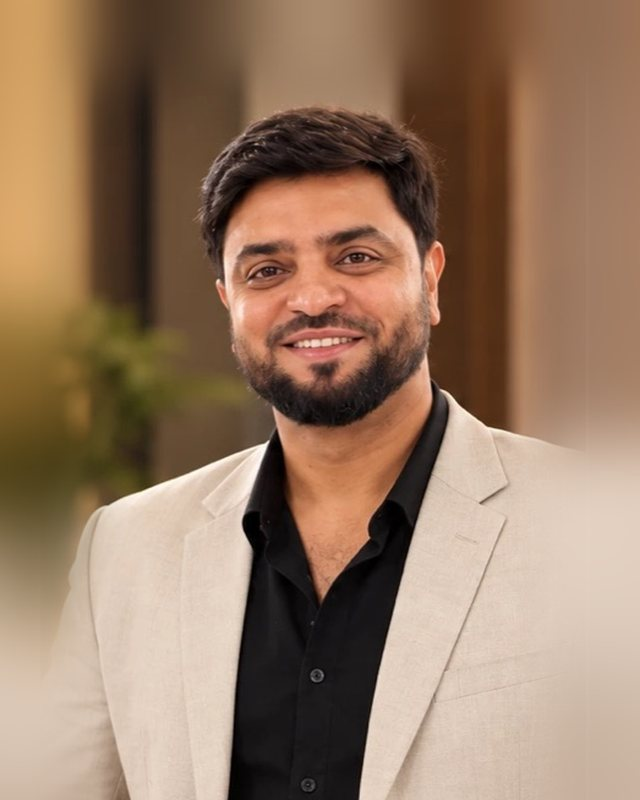
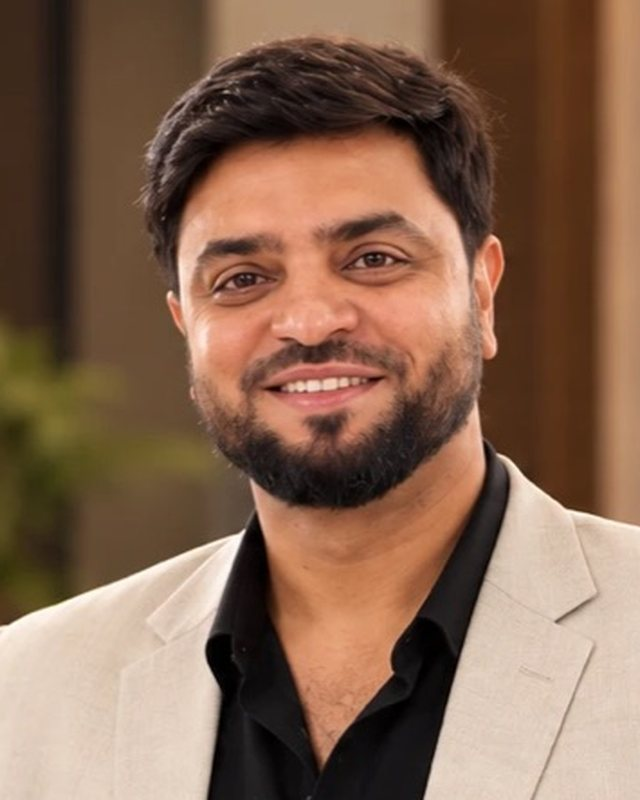
Team: re-crop photos without blurred edges, Department heads with plain department names; About: remove the patriarch card

diff --git a/team.html b/team.html
@@ -119,28 +119,28 @@
     <div class="container">
       <div class="text-center reveal">
         <div class="eyebrow" style="justify-content:center;">Departments</div>
-        <h2 class="section-title">Heads of department</h2>
+        <h2 class="section-title">Department heads</h2>
       </div>
       <div class="team-grid heads">
         <div class="person-card reveal">
-          <img class="person-photo" src="images/team/anitha-nair.jpg" alt="Anitha Nair, Head of Rags &amp; Wipers" loading="lazy" />
+          <img class="person-photo" src="images/team/anitha-nair.jpg" alt="Anitha Nair, Rags &amp; Wipers" loading="lazy" />
           <h3>Anitha Nair</h3>
-          <div class="person-role">Head of Rags &amp; Wipers</div>
+          <div class="person-role">Rags &amp; Wipers</div>
         </div>
         <div class="person-card reveal">
-          <img class="person-photo" src="images/team/amit-kapoor.jpg" alt="Amit Kapoor, Head of Rags &amp; Wipers" loading="lazy" />
+          <img class="person-photo" src="images/team/amit-kapoor.jpg" alt="Amit Kapoor, Rags &amp; Wipers" loading="lazy" />
           <h3>Amit Kapoor</h3>
-          <div class="person-role">Head of Rags &amp; Wipers</div>
+          <div class="person-role">Rags &amp; Wipers</div>
         </div>
         <div class="person-card reveal">
-          <img class="person-photo" src="images/team/azeem-hashmi.jpg" alt="Azeem Hashmi, Head of Wool" loading="lazy" />
+          <img class="person-photo" src="images/team/azeem-hashmi.jpg" alt="Azeem Hashmi, Wool" loading="lazy" />
           <h3>Azeem Hashmi</h3>
-          <div class="person-role">Head of Wool</div>
+          <div class="person-role">Wool</div>
         </div>
         <div class="person-card reveal">
-          <img class="person-photo" src="images/team/vijay-kamble.jpg" alt="Vijay Kamble, Senior Accountant" loading="lazy" />
+          <img class="person-photo" src="images/team/vijay-kamble.jpg" alt="Vijay Kamble, Accounts" loading="lazy" />
           <h3>Vijay Kamble</h3>
-          <div class="person-role">Senior Accountant</div>
+          <div class="person-role">Accounts</div>
         </div>
       </div>
     </div>

diff --git a/profile.html b/profile.html
@@ -89,7 +89,7 @@
   </section>
 
   <section class="about-heritage">
-    <div class="container heritage-grid">
+    <div class="container heritage-grid heritage-solo">
       <div class="reveal">
         <div class="eyebrow">Our Heritage</div>
         <h2 class="section-title">A legacy woven over generations.</h2>
@@ -109,14 +109,6 @@
           upcycling business, carry that vision forward across markets in the UK, Europe, Canada,
           the Middle East and the Far East.
         </p>
-      </div>
-      <div class="reveal reveal-d1">
-        <div class="patriarch-card">
-          <div class="patriarch-label">Our Patriarch</div>
-          <div class="patriarch-name">Rai Bahadur<br />Kanwar Raj Nath</div>
-          <div class="patriarch-rule"></div>
-          <p>Elected Chairman of the<br />Indian Woollen Mills Federation</p>
-        </div>
       </div>
     </div>
   </section>

diff --git a/css/style.css b/css/style.css
@@ -2160,3 +2160,6 @@ img.person-photo { display: block; object-position: 50% 0; }
 .footer-contact a.footer-cta:hover { color: var(--cream); }
 @media (min-width: 901px) { .footer-grid { grid-template-columns: 1.3fr 0.8fr 0.9fr 1.3fr; } }
 .footer-contact a { white-space: nowrap; }
+
+/* About: heritage text on its own once the patriarch card is gone */
+.heritage-grid.heritage-solo { grid-template-columns: 1fr; max-width: 860px; }
